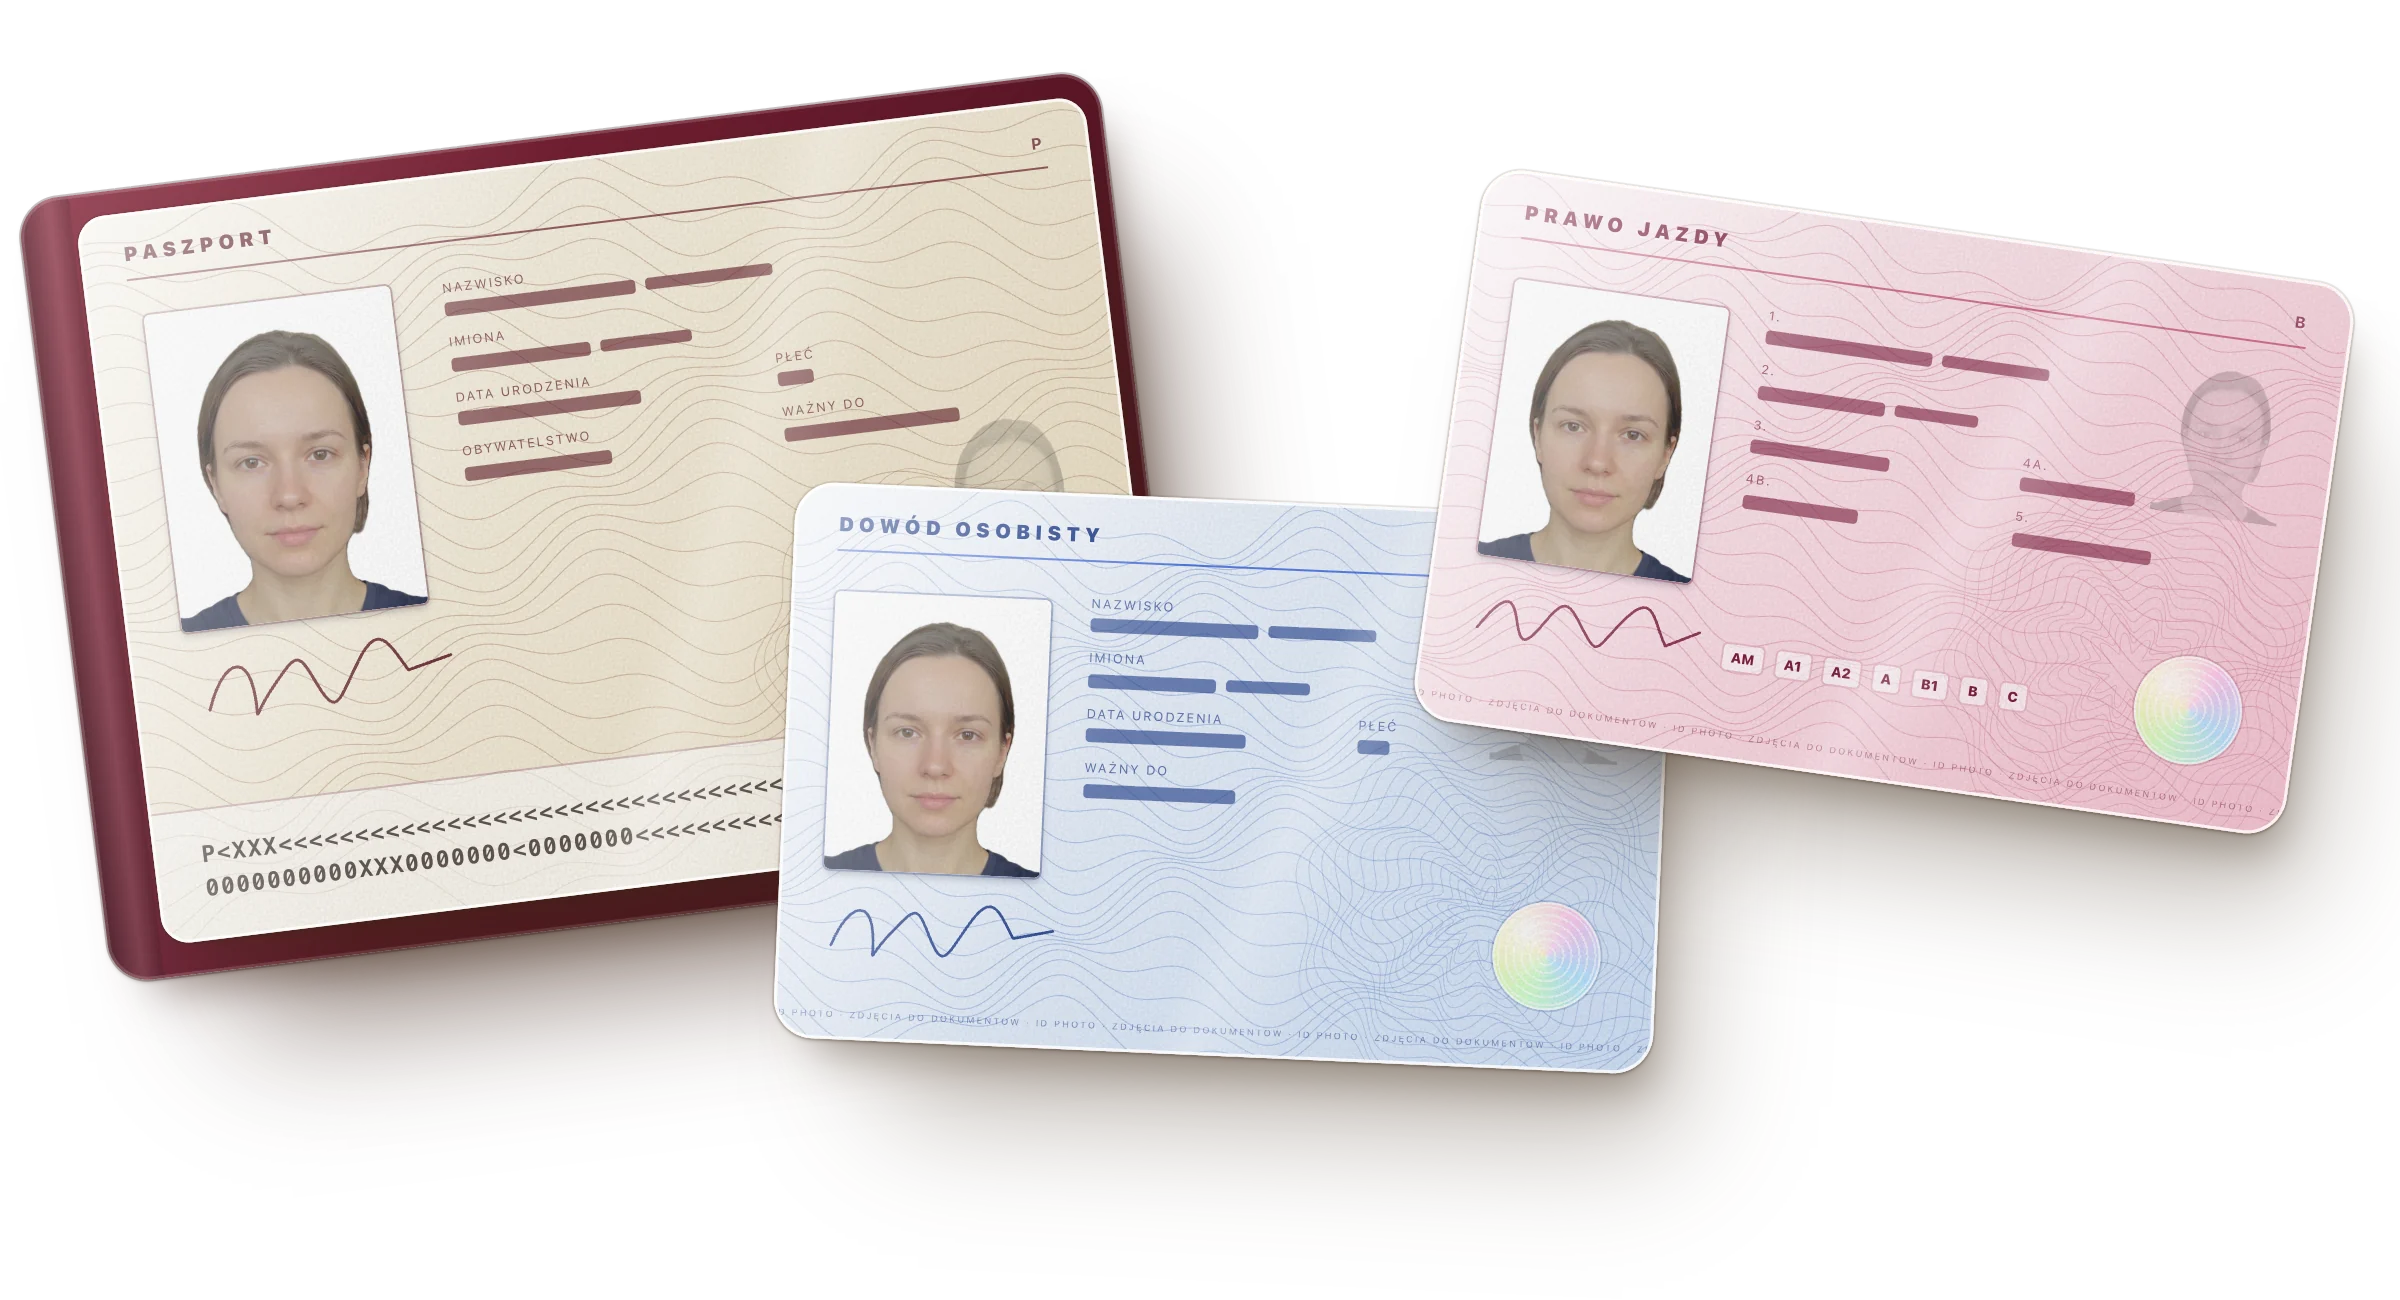
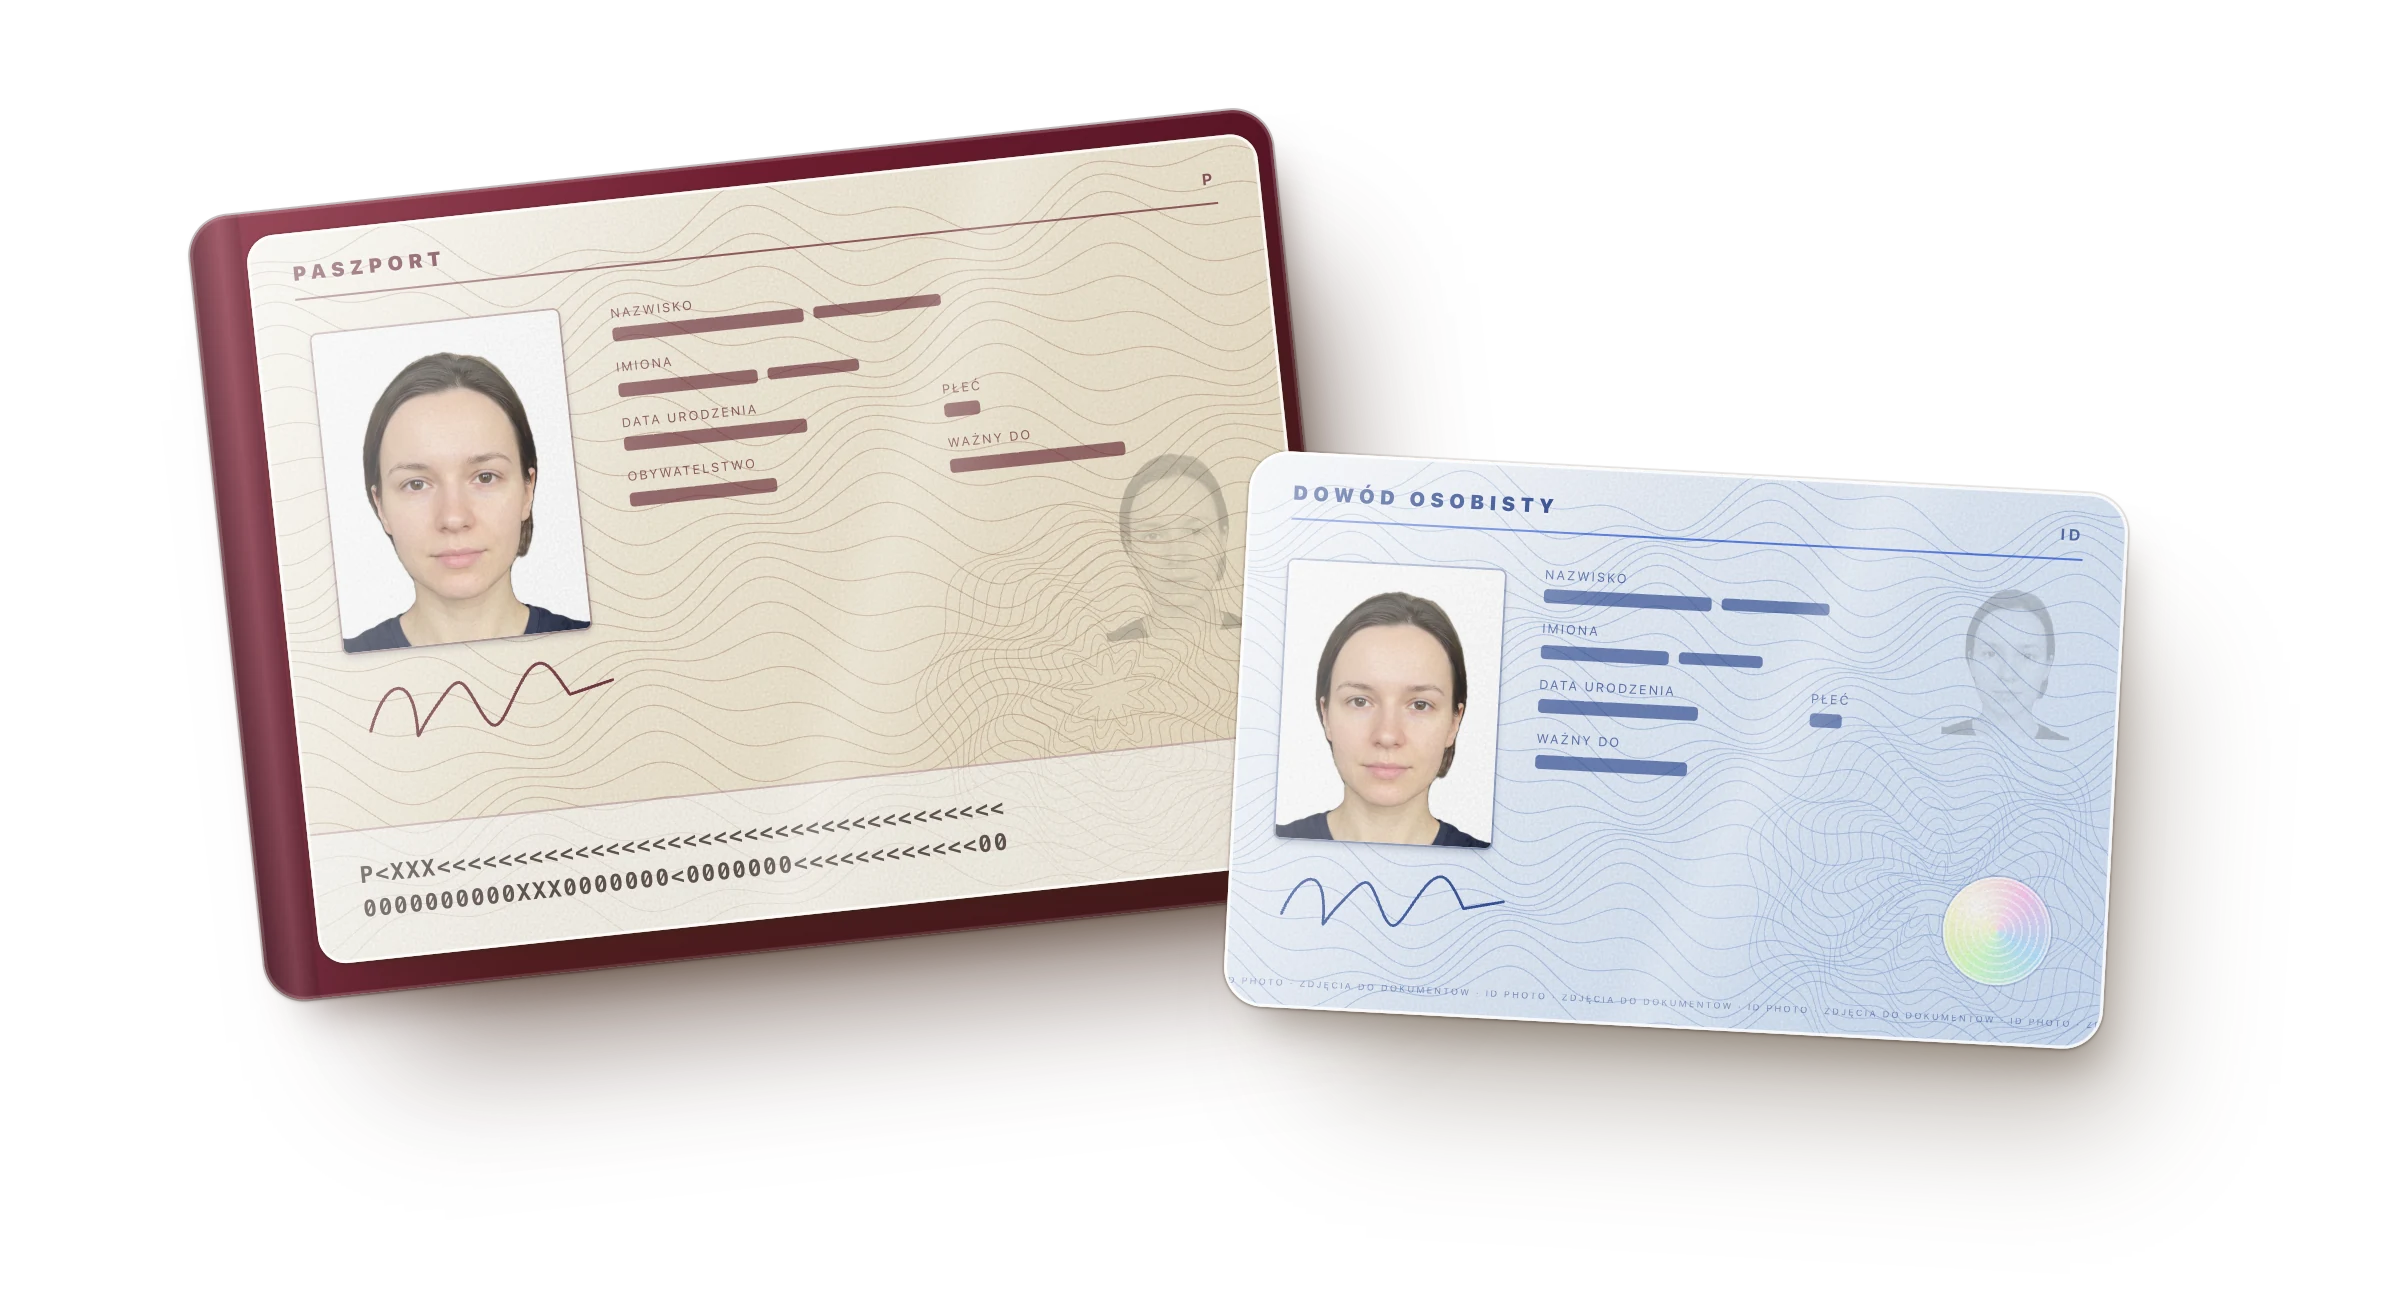
Strona: adres w App Store, ikony w hero w dwóch rzędach, odświeżone teksty i obrazy
- Przyciski „Pobierz” prowadzą do https://apps.apple.com/pl/app/id6835585571 (sześć linków na czterech stronach)
- Dwie ikony pod przyciskiem w hero stoją jedna pod drugą na każdej szerokości
- Makieta dokumentów: paszport i dowód osobisty (bez prawa jazdy), nowy obraz formularza, opis aparatu z polami oczu i brody, informacja, że aplikacja nie jest powiązana z żadnym urzędem, tymczasowy plik przy udostępnianiu w polityce prywatności
- Arkusz stylów w wersji 4

diff --git a/index.html b/index.html
@@ -4,7 +4,7 @@
 <meta charset="utf-8">
 <meta name="viewport" content="width=device-width, initial-scale=1, viewport-fit=cover">
 <title>Zdjęcia do dokumentów: zdjęcie do dowodu i paszportu telefonem w domu</title>
-<meta name="description" content="Zdjęcie do dowodu i paszportu zrobisz telefonem w domu. Aparat z ramką i owalem z maski MSWiA, podpowiedzi na żywo, potem białe tło i kadr 35 × 45 mm robią się same. Plik do wniosku online o dowód osobisty albo arkusz 10 × 15 cm do druku. Wszystko na iPhonie.">
+<meta name="description" content="Zdjęcie do dowodu i paszportu zrobisz telefonem w domu. Aparat z ramką 35 × 45 mm i polami oczu i brody z maski MSWiA, podpowiedzi na żywo, potem białe tło i kadr robią się same. Plik do wniosku online o dowód osobisty albo arkusz 10 × 15 cm do druku. Wszystko na iPhonie.">
 <link rel="canonical" href="https://bashubb.com/idphoto/">
 <meta property="og:url" content="https://bashubb.com/idphoto/">
 <meta name="theme-color" content="#f3eee5">
@@ -13,7 +13,7 @@
 <meta property="og:locale" content="pl_PL">
 <meta property="og:site_name" content="Zdjęcia do dokumentów">
 <meta property="og:title" content="Nie musisz iść do fotografa">
-<meta property="og:description" content="Zdjęcie do dowodu i paszportu zrobisz telefonem w domu. Ramka z maski MSWiA, białe tło i kadr 35 × 45 mm. Wszystko na iPhonie.">
+<meta property="og:description" content="Zdjęcie do dowodu i paszportu zrobisz telefonem w domu. Ramka 35 × 45 mm z polami oczu i brody z maski MSWiA, białe tło i kadr. Wszystko na iPhonie.">
 <meta property="og:image" content="https://bashubb.com/idphoto/assets/social-preview.jpg">
 <meta property="og:image:width" content="1200">
 <meta property="og:image:height" content="630">
@@ -26,7 +26,7 @@
 <link rel="apple-touch-icon" href="assets/fav/apple-touch-icon.png">
 <link rel="preload" href="assets/media/phone-ready.webp" as="image" type="image/webp" fetchpriority="high">
 <link rel="stylesheet" href="assets/landing.css?v=2">
-<link rel="stylesheet" href="assets/idphoto.css?v=3">
+<link rel="stylesheet" href="assets/idphoto.css?v=4">
 <script type="application/ld+json">
 {
   "@context": "https://schema.org",
@@ -36,7 +36,7 @@
   "applicationCategory": "PhotographyApplication",
   "inLanguage": "pl",
   "url": "https://bashubb.com/idphoto/",
-  "description": "Zdjęcie do dowodu osobistego i paszportu telefonem: ramka i owal z maski MSWiA, podpowiedzi na żywo, automatycznie białe tło i kadr 35 × 45 mm. Plik do wniosku online o dowód osobisty albo arkusz 10 × 15 cm do druku (paszport, urząd). Wszystko na telefonie.",
+  "description": "Zdjęcie do dowodu osobistego i paszportu telefonem: ramka 35 × 45 mm z polami oczu i brody z maski MSWiA, podpowiedzi na żywo, automatycznie białe tło i kadr. Plik do wniosku online o dowód osobisty albo arkusz 10 × 15 cm do druku (paszport, urząd). Wszystko na telefonie.",
   "publisher": {"@type": "Organization", "name": "bashubb", "url": "https://bashubb.com/"}
 }
 </script>
@@ -55,7 +55,7 @@
     <a href="#send">Plik i druk</a>
     <a href="#privacy">Prywatność</a>
   </div>
-  <a class="btn sm cta" href="https://apps.apple.com/pl/app/" data-todo="app-store-url">Pobierz</a>
+  <a class="btn sm cta" href="https://apps.apple.com/pl/app/id6835585571">Pobierz</a>
   <button class="burger" type="button" aria-expanded="false" aria-controls="menu" aria-label="Otwórz menu"><span></span><span></span></button>
 </nav>
 <div class="menu" id="menu">
@@ -77,7 +77,7 @@
       <h1 class="hero-title" id="hero-title"><span class="l1">Nie musisz iść</span> <span class="l2">do fotografa</span></h1>
       <p class="sub">Zdjęcie do dowodu i paszportu zrobisz telefonem w domu.</p>
       <div class="cta-row">
-        <a class="btn lg" href="https://apps.apple.com/pl/app/" data-todo="app-store-url"><svg class="apple" aria-hidden="true"><use href="#i-apple-logo"/></svg>Pobierz w App Store</a>
+        <a class="btn lg" href="https://apps.apple.com/pl/app/id6835585571"><svg class="apple" aria-hidden="true"><use href="#i-apple-logo"/></svg>Pobierz w App Store</a>
       </div>
       <ul class="proof" aria-label="W skrócie">
         <li><svg aria-hidden="true"><use href="#i-cloud-slash"/></svg>Bez konta i bez wysyłania</li>
@@ -151,7 +151,7 @@
       <li><svg aria-hidden="true"><use href="#i-check-circle"/></svg>Sprawdzamy wynik</li>
     </ul>
     <div class="docs reveal">
-      <img src="assets/media/documents.webp" width="2400" height="1300" alt="Makiety dokumentów z tym samym zdjęciem: paszport, dowód osobisty i prawo jazdy (ilustracja)" loading="lazy">
+      <img src="assets/media/documents.webp" width="2400" height="1300" alt="Makiety dokumentów z tym samym zdjęciem: paszport i dowód osobisty (ilustracja)" loading="lazy">
     </div>
   </div>
 </section>
@@ -228,7 +228,7 @@
   <div class="wrap">
     <h2 class="title reveal" id="final-title"><span class="l1">Zdjęcie do dokumentu</span> <span class="l2">zrobione w domu</span></h2>
     <div class="cta-row reveal d1">
-      <a class="btn lg" href="https://apps.apple.com/pl/app/" data-todo="app-store-url"><svg class="apple" aria-hidden="true"><use href="#i-apple-logo"/></svg>Pobierz w App Store</a>
+      <a class="btn lg" href="https://apps.apple.com/pl/app/id6835585571"><svg class="apple" aria-hidden="true"><use href="#i-apple-logo"/></svg>Pobierz w App Store</a>
     </div>
     <p class="small reveal d2">iPhone z iOS 26 · jednorazowy zakup, bez abonamentu</p>
   </div>
@@ -246,7 +246,7 @@
       <a href="https://bashubb.com/">Więcej aplikacji bashubb</a>
     </nav>
     <div class="meta">
-      <p class="note">Aplikacja sprawdza i podpowiada, o przyjęciu zdjęcia decyduje urząd. Wymogi: <a href="https://www.gov.pl/web/gov/zdjecie-do-dowodu-lub-paszportu" rel="noopener">gov.pl</a></p>
+      <p class="note">Aplikacja sprawdza i podpowiada, o przyjęciu zdjęcia decyduje urząd. Aplikacja nie jest powiązana z żadnym urzędem. Wymogi: <a href="https://www.gov.pl/web/gov/zdjecie-do-dowodu-lub-paszportu" rel="noopener">gov.pl</a></p>
       <span>© 2026 bashubb</span>
       <p class="quiet">Osoba na zdjęciach jest wygenerowana, dokumenty to ilustracje.</p>
     </div>

diff --git a/support/index.html b/support/index.html
@@ -12,7 +12,7 @@
 <meta name="theme-color" content="#f3eee5">
 
 <link rel="stylesheet" href="../assets/landing.css?v=2">
-<link rel="stylesheet" href="../assets/idphoto.css?v=3">
+<link rel="stylesheet" href="../assets/idphoto.css?v=4">
 </head>
 <body>
 <a class="skip" href="#main">Przejdź do treści</a>
@@ -26,7 +26,7 @@
     <a href="../#send">Plik i druk</a>
     <a href="../#privacy">Prywatność</a>
   </div>
-  <a class="btn sm cta" href="https://apps.apple.com/pl/app/" data-todo="app-store-url">Pobierz</a>
+  <a class="btn sm cta" href="https://apps.apple.com/pl/app/id6835585571">Pobierz</a>
   <button class="burger" type="button" aria-expanded="false" aria-controls="menu" aria-label="Otwórz menu"><span></span><span></span></button>
 </nav>
 <div class="menu" id="menu">
@@ -51,7 +51,7 @@
 <h2>Pytania</h2>
 <div class="faq">
 <details><summary>Co zrobić, gdy urząd nie przyjmie zdjęcia?<svg aria-hidden="true"><use href="#i-plus"/></svg></summary><div>Aplikacja sprawdza to, co da się zmierzyć na zdjęciu, ale nie gwarantuje przyjęcia: decyzję podejmuje urząd. Zapytaj, co trzeba poprawić, i zrób nowe zdjęcie w równym świetle, na wprost, z odsłoniętymi brwiami, oczami i owalem twarzy. Napisz też do nas, co urząd zakwestionował: to pomaga ulepszać aplikację.</div></details>
-<details><summary>Do jakich dokumentów pasuje zdjęcie?<svg aria-hidden="true"><use href="#i-plus"/></svg></summary><div>Do polskiego dowodu osobistego i paszportu. Oba mają zdjęcie 35 × 45 mm, a ramka i owal w aparacie pochodzą z maski MSWiA. Wymogi pochodzą ze strony <a href="https://www.gov.pl/web/gov/zdjecie-do-dowodu-lub-paszportu" rel="noopener">gov.pl</a>; źródło widać też w aplikacji.</div></details>
+<details><summary>Do jakich dokumentów pasuje zdjęcie?<svg aria-hidden="true"><use href="#i-plus"/></svg></summary><div>Do polskiego dowodu osobistego i paszportu. Oba mają zdjęcie 35 × 45 mm, a pola oczu i brody w ramce aparatu pochodzą z maski MSWiA. Wymogi pochodzą ze strony <a href="https://www.gov.pl/web/gov/zdjecie-do-dowodu-lub-paszportu" rel="noopener">gov.pl</a>; źródło widać też w aplikacji.</div></details>
 <details><summary>Czy złożę wniosek o paszport przez internet?<svg aria-hidden="true"><use href="#i-plus"/></svg></summary><div>Dorosły składa wniosek o paszport osobiście i przynosi wydrukowane zdjęcie: użyj arkusza do druku. Wniosek online dotyczy dowodu osobistego i paszportu dla dziecka do 12 lat.</div></details>
 <details><summary>Czy aplikacja składa wniosek za mnie?<svg aria-hidden="true"><use href="#i-plus"/></svg></summary><div>Nie. Aplikacja przygotowuje zdjęcie, a wniosek składa się na gov.pl albo w aplikacji mObywatel.</div></details>
 <details><summary>Czy po wniosku online o dowód osobisty trzeba iść do urzędu?<svg aria-hidden="true"><use href="#i-plus"/></svg></summary><div>Tak. Wniosek online o dowód osobisty wymaga profilu zaufanego albo podpisu elektronicznego. Potem trzeba w ciągu 30 dni zgłosić się do urzędu (odciski palców i podpis), a dowód odbiera się osobiście.</div></details>
@@ -85,7 +85,7 @@
       <a href="https://bashubb.com/">Więcej aplikacji bashubb</a>
     </nav>
     <div class="meta">
-      <p class="note">Aplikacja sprawdza i podpowiada, o przyjęciu zdjęcia decyduje urząd. Wymogi: <a href="https://www.gov.pl/web/gov/zdjecie-do-dowodu-lub-paszportu" rel="noopener">gov.pl</a></p>
+      <p class="note">Aplikacja sprawdza i podpowiada, o przyjęciu zdjęcia decyduje urząd. Aplikacja nie jest powiązana z żadnym urzędem. Wymogi: <a href="https://www.gov.pl/web/gov/zdjecie-do-dowodu-lub-paszportu" rel="noopener">gov.pl</a></p>
       <span>© 2026 bashubb</span>
       <p class="quiet">Osoba na zdjęciach jest wygenerowana, dokumenty to ilustracje.</p>
     </div>

diff --git a/privacy/index.html b/privacy/index.html
@@ -12,7 +12,7 @@
 <meta name="theme-color" content="#f3eee5">
 
 <link rel="stylesheet" href="../assets/landing.css?v=2">
-<link rel="stylesheet" href="../assets/idphoto.css?v=3">
+<link rel="stylesheet" href="../assets/idphoto.css?v=4">
 </head>
 <body>
 <a class="skip" href="#main">Przejdź do treści</a>
@@ -26,7 +26,7 @@
     <a href="../#send">Plik i druk</a>
     <a href="../#privacy">Prywatność</a>
   </div>
-  <a class="btn sm cta" href="https://apps.apple.com/pl/app/" data-todo="app-store-url">Pobierz</a>
+  <a class="btn sm cta" href="https://apps.apple.com/pl/app/id6835585571">Pobierz</a>
   <button class="burger" type="button" aria-expanded="false" aria-controls="menu" aria-label="Otwórz menu"><span></span><span></span></button>
 </nav>
 <div class="menu" id="menu">
@@ -55,7 +55,7 @@
 <li>Aplikacja nie łączy się z internetem. Nic nie jest wysyłane, także do nas.</li>
 </ul>
 <h2>Zdjęcia</h2>
-<p>Zdjęcie z aparatu jest obrabiane wyłącznie na telefonie: wycięcie postaci, białe tło i kadr liczy iPhone. Nie widzimy żadnego zdjęcia i nigdzie go nie przechowujemy.</p>
+<p>Zdjęcie z aparatu jest obrabiane wyłącznie na telefonie: wycięcie postaci, białe tło i kadr liczy iPhone. Nie widzimy żadnego zdjęcia i nigdzie go nie przechowujemy. Gdy udostępniasz zdjęcie, aplikacja zapisuje na chwilę plik w tymczasowej pamięci telefonu, żeby system mógł go przekazać dalej, i usuwa go przy następnym zdjęciu albo uruchomieniu.</p>
 <p>Gotowe zdjęcie trafia tylko tam, gdzie zdecydujesz: do Zdjęć, do Plików albo do aplikacji wybranej przy udostępnianiu. Po udostępnieniu za plik odpowiada usługa, do której go przekazano.</p>
 <h2>Uprawnienia</h2>
 <ul>
@@ -86,7 +86,7 @@
       <a href="https://bashubb.com/">Więcej aplikacji bashubb</a>
     </nav>
     <div class="meta">
-      <p class="note">Aplikacja sprawdza i podpowiada, o przyjęciu zdjęcia decyduje urząd. Wymogi: <a href="https://www.gov.pl/web/gov/zdjecie-do-dowodu-lub-paszportu" rel="noopener">gov.pl</a></p>
+      <p class="note">Aplikacja sprawdza i podpowiada, o przyjęciu zdjęcia decyduje urząd. Aplikacja nie jest powiązana z żadnym urzędem. Wymogi: <a href="https://www.gov.pl/web/gov/zdjecie-do-dowodu-lub-paszportu" rel="noopener">gov.pl</a></p>
       <span>© 2026 bashubb</span>
       <p class="quiet">Osoba na zdjęciach jest wygenerowana, dokumenty to ilustracje.</p>
     </div>

diff --git a/404.html b/404.html
@@ -11,7 +11,7 @@
 <meta name="theme-color" content="#f3eee5">
 
 <link rel="stylesheet" href="/idphoto/assets/landing.css?v=2">
-<link rel="stylesheet" href="/idphoto/assets/idphoto.css?v=3">
+<link rel="stylesheet" href="/idphoto/assets/idphoto.css?v=4">
 </head>
 <body>
 <a class="skip" href="#main">Przejdź do treści</a>
@@ -25,7 +25,7 @@
     <a href="/idphoto/#send">Plik i druk</a>
     <a href="/idphoto/#privacy">Prywatność</a>
   </div>
-  <a class="btn sm cta" href="https://apps.apple.com/pl/app/" data-todo="app-store-url">Pobierz</a>
+  <a class="btn sm cta" href="https://apps.apple.com/pl/app/id6835585571">Pobierz</a>
   <button class="burger" type="button" aria-expanded="false" aria-controls="menu" aria-label="Otwórz menu"><span></span><span></span></button>
 </nav>
 <div class="menu" id="menu">

diff --git a/assets/idphoto.css b/assets/idphoto.css
@@ -168,7 +168,7 @@ h3 { font-size: 24px; line-height: 28px; letter-spacing: -0.02em; font-weight: 9
 .hero-grid { display: grid; grid-template-columns: minmax(0, 1fr) auto; column-gap: var(--s-600); align-items: center; }
 .hero-copy { max-width: 680px; }
 .hero .cta-row { margin-top: var(--s-500); }
-.proof { margin-top: var(--s-400); gap: var(--s-100) var(--s-400); font-size: 18px; line-height: 28px; font-weight: 600; color: var(--ink); }
+.proof { margin-top: var(--s-400); flex-direction: column; align-items: flex-start; gap: var(--s-100); font-size: 18px; line-height: 28px; font-weight: 600; color: var(--ink); }
 .proof svg { width: 24px; height: 24px; color: var(--ok); }
 .proof li { gap: var(--s-100); }
 
